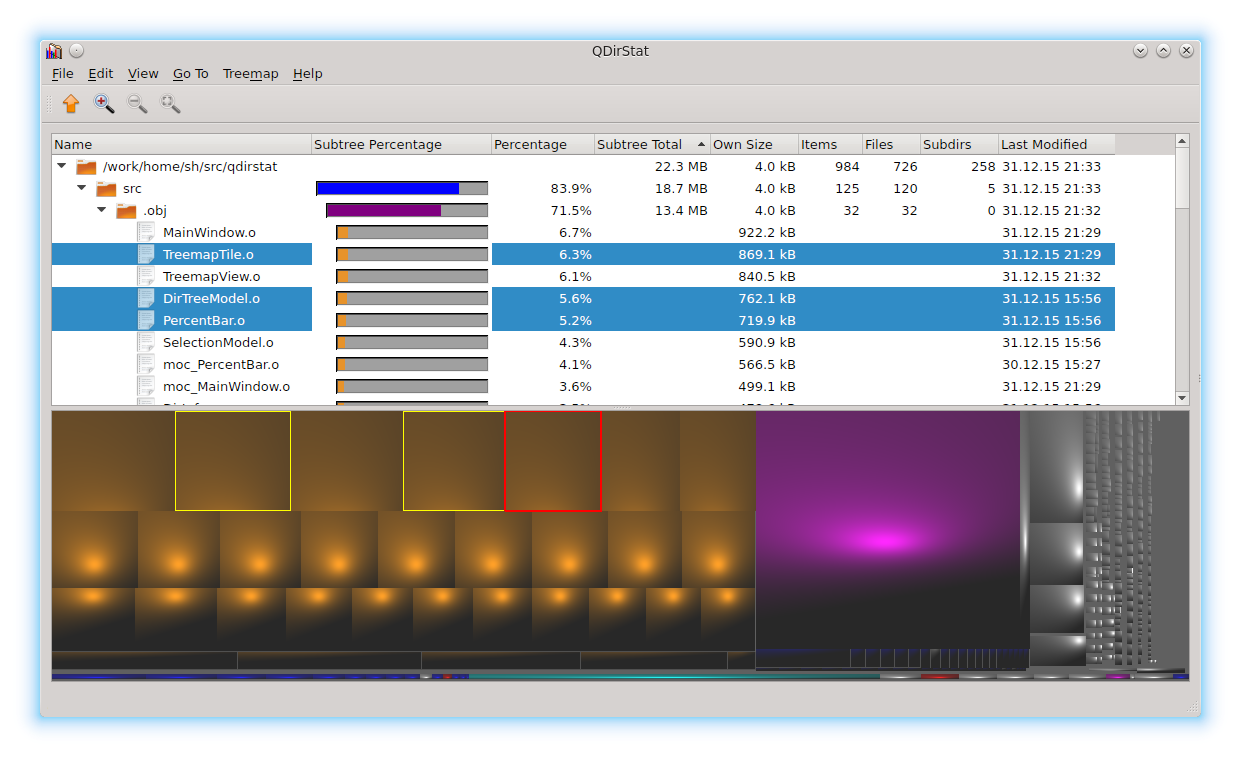
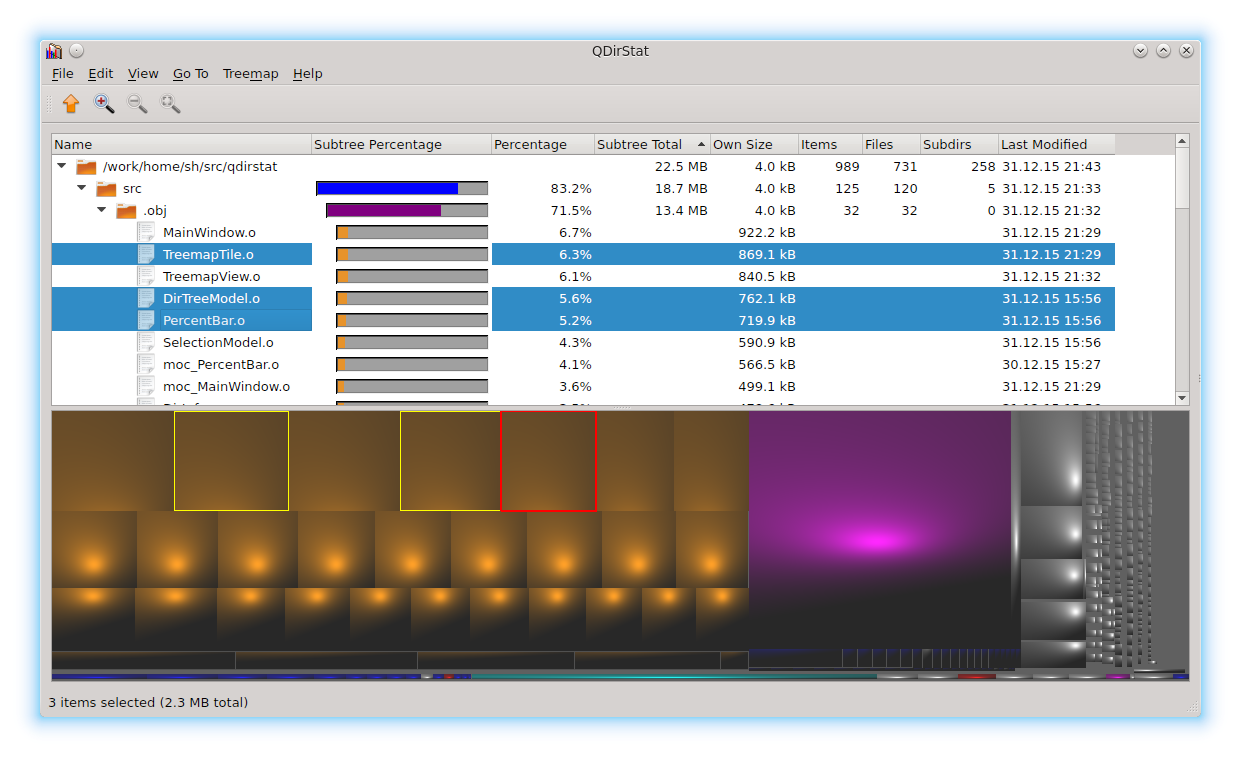
More status update

diff --git a/README.md b/README.md
@@ -35,6 +35,10 @@ Usable, but still pre-Alpha. Use at your own risk. You have been warned. ;-)
 
 - 2015-12-31  New Year's Eve release
 
+  - Added the URL of the current item in the status bar at the bottom of the
+    main window. If more than one item is selected, it displays the total sum
+    of all selected items there.
+
   - Treemap zoom in / out / zoom reset works. The treemap now automatically
     zooms out if an item outside its current scope is clicked in the tree view.
 
